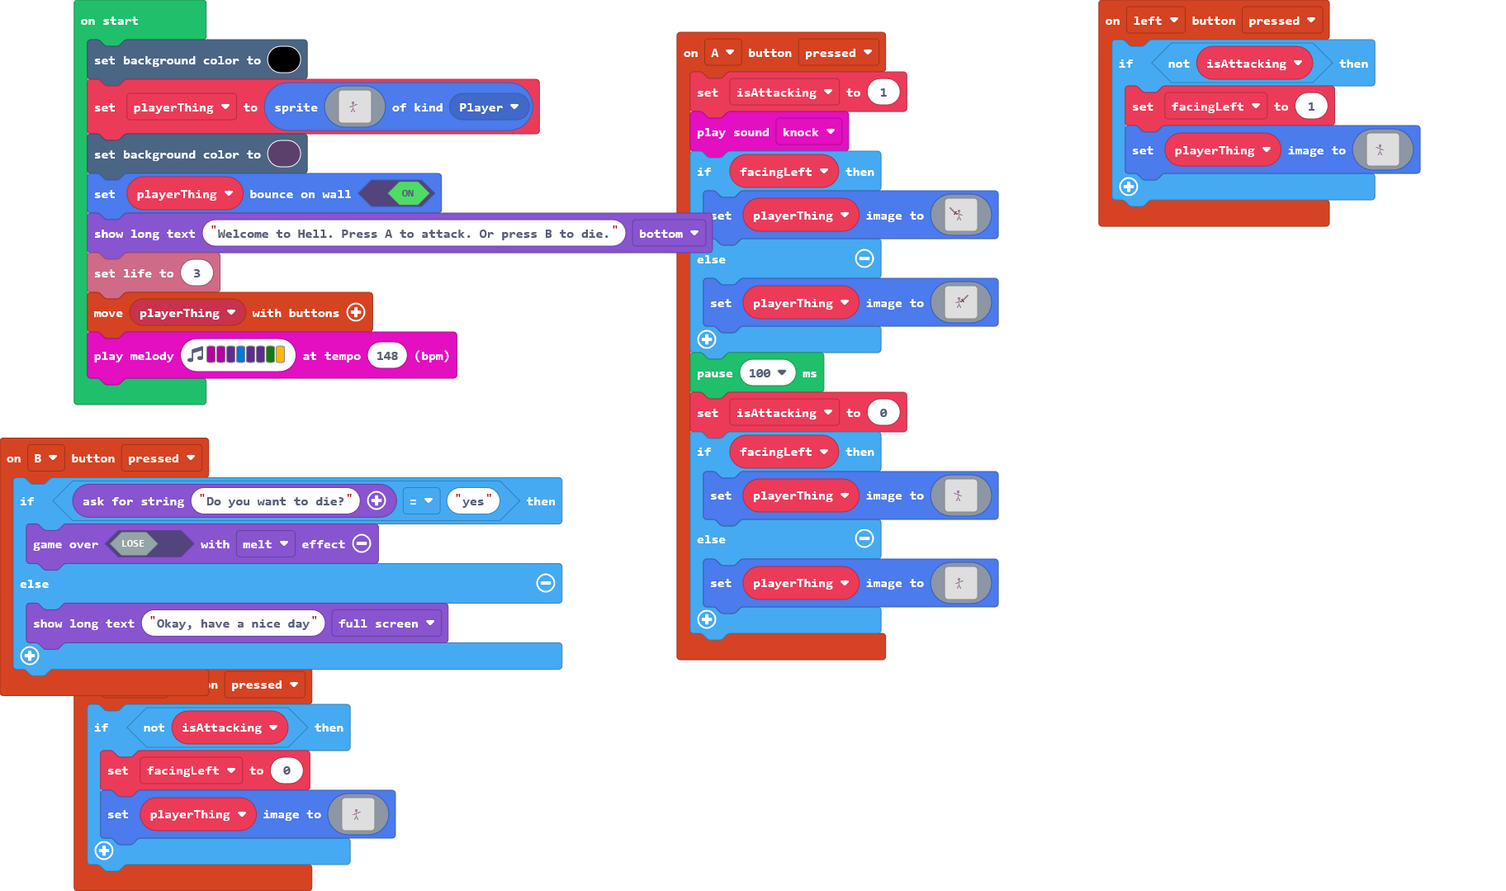
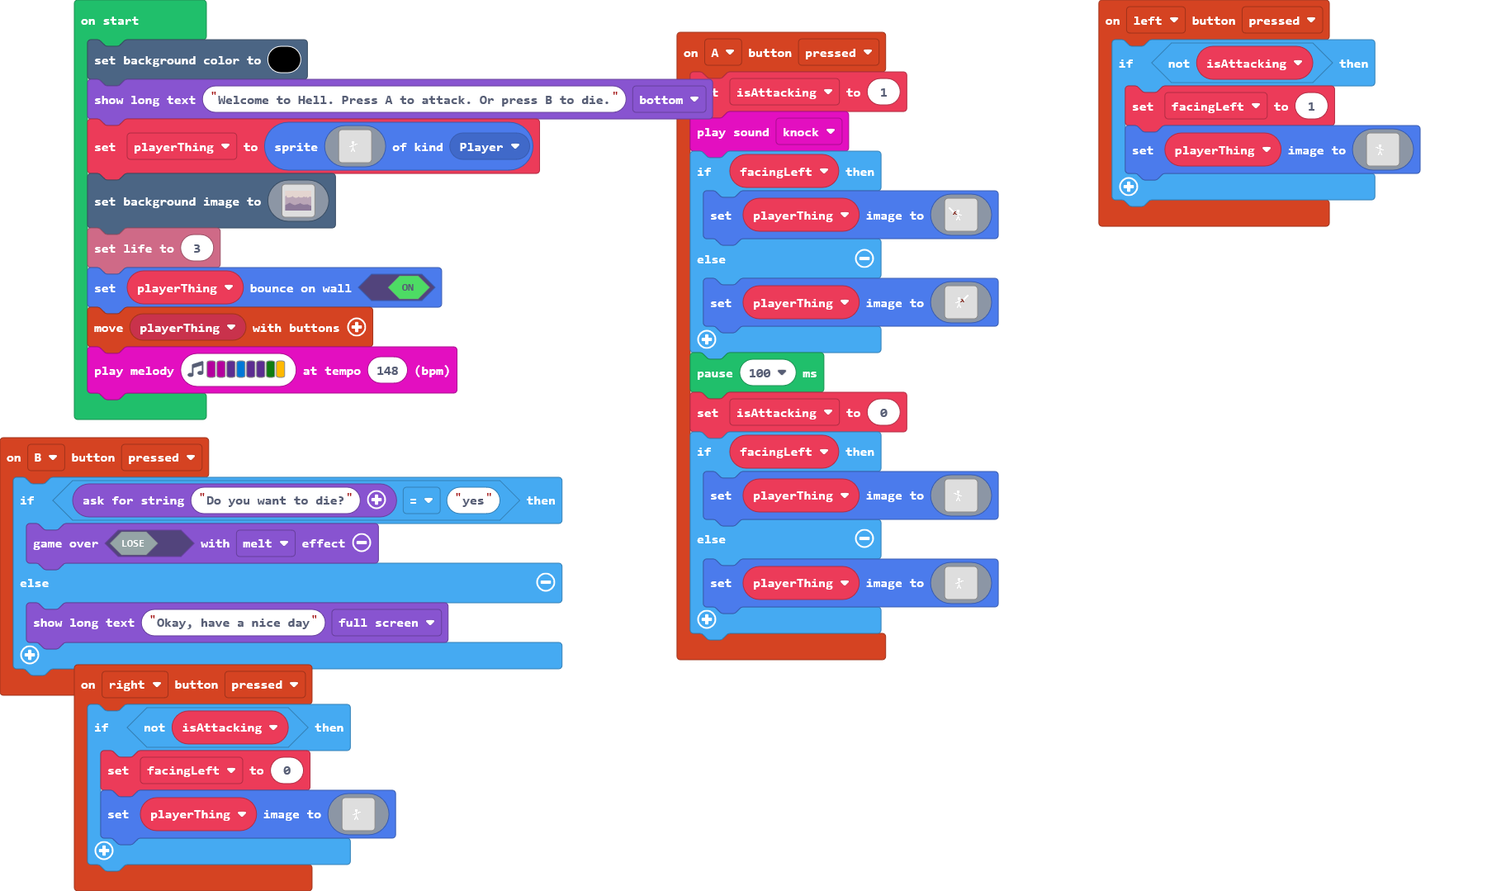
stuff and stuff idk

diff --git a/images.g.ts b/images.g.ts
@@ -3,6 +3,129 @@ namespace myImages {
 
     helpers._registerFactory("image", function(name: string) {
         switch(helpers.stringTrim(name)) {
+            case "image5":
+            case "Background":return img`
+dddddddddddddddddddddddddddddddddddddddddddddddddddddddddddddddddddddddddddddddddddddddddddddddddddddddddddddddddddddddddddddddddddddddddddddddddddddddddddddddd
+dddddddddddddddddddddddddddddddddddddddddddddddddddddddddddddddddddddddddddddddddddddddddddddddddddddddddddddddddddddddddddddddddddddddddddddddddddddddddddddddd
+dddddddddddddddddddddddddddddddddddddddddddddddddddddddddddddddddddddddddddddddddddddddddddddddddddddddddddddddddddddddddddddddddddddddddddddddddddddddddddddddd
+dddddddddddddddddddddddddddddddddddddddddddddddddddddddddddddddddddddddddddddddddddddddddddddddddddddddddddddddddddddddddddddddddddddddddddddddddddddddddddddddd
+dddddddddddddddddddddddddddddddddddddddddddddddddddddddddddddddddddddddddddddddddddddddddddddddddddddddddddddddddddddddddddddddddddddddddddddddddddddddddddddddd
+dddddddddddddddddddddddddddddddddddddddddddddddddddddddddddddddddddddddddddddddddddddddddddddddddddddddddddddddddddddddddddddddddddddddddddddddddddddddddddddddd
+dddddddddddddddddddddddddddddddddddddddddddddddddddddddddddddddddddddddddddddddddddddddddddddddddddddddddddddddddddddddddddddddddddddddddddddddddddddddddddddddd
+dddddddddddddddddddddddddddddddddddddddddddddddddddddddddddddddddddddddddddddddddddddddddddddddddddddddddddddddddddddddddddddddddddddddddddddddddddddddddddddddd
+dddddddddddddddddddddddddddddddddddddddddddddddddddddddddddddddddddddddddddddddddddddddddddddddddddddddddddddddddddddddddddddddddddddddddddddddddddddddddddddddd
+dddddddddddddddddddddddddddddddddddddddddddddddddddddddddddddddddddddddddddddddddddddddddddddddddddddddddddddddddddddddddddddddddddddddddddddddddddddddddddddddd
+dddddddddddddddddddddddddddddddddddddddddddddddddddddddddddddddddddddddddddddddddddddddddddddddddddddddddddddddddddddddddddddddddddddddddddddddddddddddddddddddd
+dddddddddddddddddddddddddddddddddddddddddddddddddddddddddddddddddddddddddddddddddddddddddddddddddddddddddddddddddddddddddddddddddddddddddddddddddddddddddddddddd
+dddddddddddddddddddddddddddddddddddddddddddddddddddddddddddddddddddddddddddddddddddddddddddddddddddddddddddddddddddddddddddddddddddddddddddddddddddddddddddddddd
+dddddddddddddddddddddddddddddddddddddddddddddddddddddddddddddddddddddddddddddddddddddddddddddddddddddddddddddddddddddddddddddddddddddddddddddddddddddddddddddddd
+dddddddddddddddddddddddddddddddddddddddddddddddddddddddddddddddddddddddddddddddddddddddddddddddddddddddddddddddddddddddddddddddddddddddddddddddddddddddddddddddd
+dddddddddddddddddddddddddddddddddddddddddddddddddddddddddddddddddddddddddddddddddddddddddddddddddddddddddddddddddddddddddddddddddddddddddddddddddddddddddddddddd
+dddddddddddddddddddddddddddddddddddddddddddddddddddddddddddddddddddddddddddddddddddddddddddddddddddddddddddddddddddddddddddddddddddddddddddddddddddddddddddddddd
+dddddddddddddddddddddddddddddddddddddddddddddddddddddddddddddddddddddddddddddddddddddddddddddddddddddddddddddddddddddddddddddddddddddddddddddddddddddddddddddddd
+dddddddddddddddddddddddddddddddddddddddddddddddddddddddddddddddddddddddddddddddddddddddddddddddddddddddddddddddddddddddddddddddddddddddddddddddddddddddddddddddd
+dddddddddddddddddddddddddddddddddddddddddddddddddddddddddddddddddddddddddddddddddddddddddddddddddddddddddddddddddddddddddddddddddddddddddddddddddddddddddddddddd
+dddddddddddddddddddddddddddddddddddddddddddddddddddddddddddddddddddddddddddddddddddddddddddddddddddddddddddddddddddddddddddddddddddddddddddddddddddddddddddddddd
+dddddddddddddddddddddddddddddddddddddddddddddddddddddddddddddddddddddddddddddddddddddddddddddddddddddddddddddddddddddddddddddddddddddddddddddddddddddddddddddddd
+dddddddddddddddddddddddddddddddddddddddddddddddddddddddddddddddddddddddddddddddddddddddddddddddddddddddddddddddddddddddddddddddddddddddddddddddddddddddddddddddd
+dddddddddddddddddddddddddddddddddddddddddddddddddddddddddddddddddddddddddddddddddddddddddddddddddddddddddddddddddddddddddddddddddddddddddddddddddddddddddddddddd
+dddddddddddddddddddddddddddddddddddddddddddddddddddddddddddddddddddddddddddddddddddddddddddddddddddddddddddddddddddddddddddddddddddddddddddddddddddddddddddddddd
+dddddddddddddddddddddddddddddddddddddddddddddddddddddddddddddddddddddddddddddddddddddddddddddddddddddddddddddddddddddddddddddddddddddddddddddddddddddddddddddddd
+dddddddddddddddddddddddddddddddddddddddddddddddddddddddddddddddddddddddddddddddddddddddddddddddddddddddddddddddddddddddddddddddddddddddddddddddddddddddddddddddd
+dddddddddddddddddddddddddddddddddddddddddddddddddddddddddddddddddddddddddddddddddddddddddddddddddddddddddddddddddddddddddddddddddddddddddddddddddddddddddddddddd
+dddddddddddddddddddddddddddddddddddddddddddddddddddddddddddddddddddddddddddddddddddddddddddddddddddddddddddddddddddddddddddddddddddddddddddddddddddddddddddddddd
+dddddddddbbbdddddddddddddddddddddddddddddddddddddddddddddddddddddddddddddddddddddddddddddddddddddddddddddddddddddddddddddddddddddddddddddddddddddddddddddddddddd
+ddddddddbbbddddddddddddddddddddddddddddddddddddddddddddddddddddddddddddddddddddddddddddddddddddddddddddddddddddddddddddddddddddddddddddddddddddddddddddddddddddd
+ddddddbbbbbddddddddddddddddddddddddddddddddddddddddddddddddddddddddddddddddddddddddddddddddddddddddddddddddddddddddddddddddddddddddddddddddddddddddddddddddddddd
+ddddbbbbbbbdddddddddddddddddddddddddddddddddddddbddddddddddddddddddddddddddddddddddddddddddddddddddddddddddddddddddddddddddddddddddddddddddddddddddddddddddddddd
+dddbbbbbbbbddddddddddddddddddddddddddddddddddddbbbdddddddddddddddddddddddddddddddddddddddddddddddddddddddddddddddddddddddddddddddddddddddddddddddddddddddddddddd
+ddbbbbbbbbbdddddddddddddddddddddddddddddddddddbbbbdddddddddddddddddddddddddddddddddddddddddddddddddddddddddddddddddddddddddddddddddddddddddddddddddddddddddddddd
+bbbbbbbbbbbdddddddddddddddddddddddddddddddddbbbbbbbdddddddddddddddddddddddddddddddddbdddddddddddddddddddddddddddddbddddddddddddddddddddddddddddddddddddbbddddddd
+bbbbbbbbbbbbdddddddddddddddddddddddddddddddbbbbbbbbbdddddddddddddddddddddddddddddddbbddddddddddddddddddddddddddddbbbddddddddddddddddbbdddddddddddddddbbbbbbddddd
+bbbbbbbbbbbbddddddddddddddddddddddddddddbbbbbbbbbbbbbddddddddddddddddddddddddddddbbbbbddddddddddddddddddddddddddbbbbbbbbdddddddddddbbbbddddddddddddbbbbbbbbbbbbb
+bbbbbbbbbbbbbdddddddddddddddddddddddbbbbbbbbbbbbbbbbbbddddddddddddddddddddddddddbbbbbbbbddddddddddddddddddddddbbbbbbbbbbbbbbbbddddbbbbbdddddddddddbbbbbbbbbbbbbb
+bbbbbbbbbbbbbbbddddddddddddddddddbbbbbbbbbbbbbbbbbbbbbbbbddddddddddddddddddddddbbbbbbbbbbddddddddddddddddddddbbbbbbbbbbbbbbbbbbbbbbbbbbddddddddddbbbbbbbbbbbbbbb
+bbbbbbbbbbbbbbbbddddddddddddbbbbbbbbbbbbbbbbbbbbbbbbbbbbbbdddddddddddddddddddbbbbbbbbbbbbbbddddddddddddddddbbbbbbbbbbbbbbbbbbbbbbbbbbbbddddddddbbbbbbbbbbbbbbbbb
+bbbbbbbbbbbbbbbbbbbbbbbbbbbbbbbbbbbbbbbbbbbbbbbbbbbbbbbbbbbbbdddddddddddddbbbbbbbbbbbbbbbbbbbbbbbbbbbbbbbbbbbbbbbbbbbbbbbbbbbbbbbbbbbbbbddddddbbbbbbbbbbbbbbbbbb
+bbbbbbbbbbbbbbbbbbbbbbbbbbbbbbbbbbbbbbbbbbbbbbbbbbbbbbbbbbbbbbbbbddddddbbbbbbbbbbbbbbbbbbbbbbbbbbbbbbbbbbbbbbbbbbbbbbbbbbbbbbbbbbbbbbbbbbbdddbbbbbbbbbbbbbbbbbbb
+bbbbbbbbbbbbbbbbbbbbbbbbbbbbbbbbbbbbbbbbbbbbbbbbbbbbbbbbbbbbbbbbbbbbbbbbbbbbbbbbbbbbbbbbbbbbbbbbbbbbbbbbbbbbbbbbbbbbbbbbbbbbbbbbbbbbbbbbbbbbbbbbbbbbbbbbbbbbbbbb
+bbbbbbbbbbbbbbbbbbbbbbbbbbbbbbbbbbbbbbbbbbbbbbbbbbbbbbbbbbbbbbbbbbbbbbbbbbbbbbbbbbbbbbbbbbbbbbbbbbbbbbbbbbbbbbbbbbbbbbbbbbbbbbbbbbbbbbbbbbbbbbbbbbbbbbbbbbbbbbbb
+bbbbbbbbbbbbbbbbbbbbbbbbbbbbbbbbbbbbbbbbbbbbbbbbbbbbbbbbbbbbbbbbbbbbbbbbbbbbbbbbbbbbbbbbbbbbbbbbbbbbbbbbbbbbbbbbbbbbbbbbbbbbbbbbbbbbbbbbbbbbbbbbbbbbbbbbbbbbbbbb
+bbbbbbbbbbbbbbbbbbbbbbbbbbbbbbbbbbbbbbbbbbbbbbbbbbbbbbbbbbbbbbbbbbbbbbbbbbbbbbbbbbbbbbbbbbbbbbbbbbbbbbbbbbbbbbbbbbbbbbbbbbbbbbbbbbbbbbbbbbbbbbbbbbbbbbbbbbbbbbbb
+bbbbbbbbbbbbbbbbbbbbbbbbbbbbbbbbbbbbbbbbbbbbbbbbbbbbbbbbbbbbbbbbbbbbbbbbbbbbbbbbbbbbbbbbbbbbbbbbbbbbbbbbbbbbbbbbbbbbbbbbbbbbbbbbbbbbbbbbbbbbbbbbbbbbbbbbbbbbbbbb
+bbbbbbbbbbbbbbbbbbbbbbbbbbbbbbbbbbbbbbbbbbbbbbbbbbbbbbbbbbbbbbbbbbbbbbbbbbbbbbbbbbbbbbbbbbbbbbbbbbbbbbbbbbbbbbbbbbbbbbbbbbbbbbbbbbbbbbbbbbbbbbbbbbbbbbbbbbbbbbbb
+bbbbbbbbbbbbbbbbbbbbbbbbbbbbbbbbbbbbbbbbbbbbbbbbbbbbbbbbbbbbbbbbbbbbbbbbbbbbbbbbbbbbbbbbbbbbbbbbbbbbbbbbbbbbbbbbbbbbbbbbbbbbbbbbbbbbbbbbbbbbbbbbbbbbbbbbbbbbbbbb
+bbbbbbbbbbbbbbbbbbbbbbbbbbbbbbbbbbbbbbbbbbbbbbbbbbbbbbbbbbbbbbbbbbbbbbbbbbbbbbbbbbbbbbbbbbbbbbbbbbbbbbbbbbbbbbbbbbbbbbbbbbbbbbbbbbbbbbbbbbbbbbbbbbbbbbbbbbbbbbbb
+bbbbbbbbbbbbbbbbbbbbbbbbbbbbbbbbbbbbbbbbbbbbbbbbbbbbbbbbbbbbbbbbbbbbbbbbbbbbbbbbbbbbbbbbbbbbbbbbbbbbbbbbbbbbbbbbbbbbbbbbbbbbbbbbbbbbbbbbbbbbbbbbbbbbbbbbbbbbbbbb
+bbbbbbbbbbbbbbbbbbbbbbbbbbbbbbbbbbbbbbbbbbbbbbbbbbbbbbbbbbbbbbbbbbbbbbbbbbbbbbbbbbbbbbbbbbbbbbbbbbbbbbbbbbbbbbbbbbbbbbbbbbbbbbbbbbbbbbbbbbbbbbbbbbbbbbbbbbbbbbbb
+bbbbbbbbbbbbbbbbbbbbbbbbbbbbbbbbbbbbbbbbbbbbbbbbbbbbbbbbbbbbbbbbbbbbbbbbbbbbbbbbbbbbbbbbbbbbbbbbbbbbbbbbbbbbbbbbbbbbbbbbbbbbbbbbbbbbbbbbbbbbbbbbbbbbbbbbbbbbbbbb
+bbbbbbbbbbbbbbbbbbbbbbbbbbbbbbbbbbbbbbbbbbbbbbbbbbbbbbbbbbbbbbbbbbbbbbbbbbbbbbbbbbbbbbbbbbbbbbbbbbbbbbbbbbbbbbbbbbbbbbbbbbbbbbbbbbbbbbbbbbbbbbbbbbbbbbbbbbbbbbbb
+bbbbbbbbbbbbbbbbbbbbbbbbbbbbbbbbbbbbbbbbbbbbbbbbbbbbbbbbbbbbbbbbbbbbbbbbbbbbbbbbbbbbbbbbbbbbbbbbbbbbbbbbbbbbbbbbbbbbbbbbbbbbbbbbbbbbbbbbbbbbbbbbbbbbbbbbbbbbbbbb
+bbbbbbbbbbbbbbbbbbbbbbbbbbbbbbbbbbbbbbbbbbbbbbbbbbbbbbbbbbbbbbbbbbbbbbbbbbbbbbbbbbbbbbbbbbbbbbbbbbbbbbbbbbbbbbbbbbbbbbbbbbbbbbbbbbbbbbbbbbbbbbbbbbbbbbbbbbbbbbbb
+bbbbbbbbbbbbbbbbbbbbbbbbbbbbbbbbbbbbbbbbbbbbbbbbbbbbbbbbbbbbbbbbbbbbbbbbbbbbbbbbbbbbbbbbbbbbbbbbbbbbbbbbbbbbbbbbbbbbbbbbbbbbbbbbbbbbbbbbbbbbbbbbbbbbbbbbbbbbbbbb
+bbbbbbbbbbbbbbbbbbbbbbbbbbbbbbbbbbbbbbbbbbbbbbbbbbbbbbbbbbbbbbbbbbbbbbbbbbbbbbbbbbbbbbbbbbbbbbbbbbbbbbbbbbbbbbbbbbbbbbbbbbbbbbbbbbbbbbbbbbbbbbbbbbbbbbbbbbbbbbbb
+bbbbbbbbbbbbbbbbbbbbbbbbbbbbbbbbbbbbbbbbbbbbbbbbbbbbbbbbbbbbbbbbbbbbbbbbbbbbbbbbbbbbbbbbbbbbbbbbbbbbbbbbbbbbbbbbbbbbbbbbbbbbbbbbbbbbbbbbbbbbbbbbbbbbbbbbbbbbbbbb
+bbbbbbbbbbbbbbbbbbbbbbbbbbbbbbbbbbbbbbbbbbbbbbbbbbbbbbbbbbbbbbbbbbbbbbbbbbbbbbbbbbbbbbbbbbbbbbbbbbbbbbbbbbbbbbbbbbbbbbbbbbbbbbbbbbbbbbbbbbbbbbbbbbbbbbbbbbbbbbbb
+bbbbbbbbbbbbbbbbbbbbbbbbbbbbbbbbbbbbbbbbbbbbbbbbbbbbbbbbbbbbbbbbbbbbbbbbbbbbbbbbbbbbbbbbbbbbbbbbbbbbbbbbbbbbbbbbbbbbbbbbbbbbbbbbbbbbbbbbbbbbbbbbbbbbbbbbbbbbbbbb
+bbbbbbbbbbbbbbbbbbbbbbbbbbbbbbbbbbbbbbbbbbbbbbbbbbbbbbbbbbbbbbbbbbbbbbbbbbbbbbbbbbbbbbbbbbbbbbbbbbbbbbbbbbbbbbbbbbbbbbbbbbbbbbbbbbbbbbbbbbbbbbbbbbbbbbbbbbbbbbbb
+bbbbbbbbbbbbbbbbbbbbbbbbbbbbbbbbbbbbbbbbbbbbbbbbbbbbbbbbbbbbbbbbbbbbbbbbbbbbbbbbbbbbbbbbbbbbbbbbbbbbbbbbbbbbbbbbbbbbbbbbbbbbbbbbbbbbbbbbbbbbbbbbbbbbbbbbbbbbbbbb
+bbbbbbbbbbbbbbbbbbbbbbbbbbbbbbbbbbbbbbbbbbbbbbbbbbbbbbbbbbbbbbbbbbbbbbbbbbbbbbbbbbbbbbbbbbbbbbbbbbbbbbbbbbbbbbbbbbbbbbbbbbbbbbbbbbbbbbbbbbbbbbbbbbbbbbbbbbbbbbbb
+bbbbbbbbbbbbbbbbbbbbbbbbbbbbbbbbbbbbbbbbbbbbbbbbbbbbbbbbbbbbbbbbbbbbbbbbbbbbbbbbbbbbbbbbbbbbbbbbbbbbbbbbbbbbbbbbbbbbbbbbbbbbbbbbbbbbbbbbbbbbbbbbbbbbbbbbbbbbbbbb
+bbbbbbbbbbbbbbbbbbbbbbbbbbbbbbbbbbbbbbbbbbbbbbbbbbbbbbbbbbbbbbbbbbbbbbbbbbbbbbbbbbbbbbbbbbbbbbbbbbbbbbbbbbbbbbbbbbbbbbbbbbbbbbbbbbbbbbbbbbbbbbbbbbbbbbbbbbbbbbbb
+bbbbbbbbbbbbbbbbbbbbbbbbbbbbbbbbbbbbbbbbbbbbbbbbbbbbbbbbbbbbbbbbbbbbbbbbbbbbbbbbbbbbbbbbbbbbbbbbbbbbbbbbbbbbbbbbbbbbbbbbbbbbbbbbbbbbbbbbbbbbbbbbbbbbbbbbbbbbbbbb
+bbbbbbbbbbbbbbbbbbbbbbbbbbbbbbbbbbbbbbbbbbbbbbbbbbbbbbbbbbbbbbbbbbbbbbbbbbbbbbbbbbbbbbbbbbbbbbbbbbbbbbbbbbbbbbbbbbbbbbbbbbbbbbbbbbbbbbbbbbbbbbbbbbbbbbbbbbbbbbbb
+bbbbbbbbbbbbbbbbbbbbbbbbbbbbbbbbbbbbbbbbbbbbbbbbbbbbbbbbbbbbbbbbbbbbbbbbbbbbbbbbbbbbbbbbbbbbbbbbbbbbbbbbbbbbbbbbbbbbbbbbbbbbbbbbbbbbbbbbbbbbbbbbbbbbbbbbbbbbbbbb
+bbbbbbbbbbbbbbbbbbbbbbbbbbbbbbbbbbbbbbbbbbbbbbbbbbbbbbbbbbbbbbbbbbbbbbbbbbbbbbbbbbbbbbbbbbbbbbbbbbbbbbbbbbbbbbbbbbbbbbbbbbbbbbbbbbbbbbbbbbbbbbbbbbbbbbbbbbbbbbbb
+bbbbbbbbbbbbbbbbbbbbbbbbbbbbbbbbbbbbbbbbbbbbbbbbbbbbbbbbbbbbbbbbbbbbbbbbbbbbbbbbbbbbbbbbbbbbbbbbbbbbbbbbbbbbbbbbbbbbbbbbbbbbbbbbbbbbbbbbbbbbbbbbbbbbbbbbbbbbbbbb
+bbbbbbbbbbbbbbbbbbbbbbbbbbbbbbbcbbbbbbbbbbbbbbbbbbbbbbbbbbbbbbbbbbbbbbbbbbbbbbbbbbbbbbbbbbbbbbbbbbbbbbbbbbbbbbbbbbbbbbbbbbbbbbbbbbbbbbbbbbbbbbbbbbbbbbbbbbbbbbbb
+bbbbbbbbbbbbbbbbbbbbbbbbbbbbcccccbbbbbbbbbbbbbbbbbbbbbbbbbbbbbbbbbbbbbbbbbbbbbbbbbbbbbbbbbbbbbbbbbbbbbbbbbbbbbbbbbbbbbbbbbbbbbbbbbbbbbbbbbbbbbbbbbbbbbbbbbbbbbbb
+bbbbbbbbbbbbbbbbbbbbbbbbbbccccccccbbbbbbbbbbbbbbbbbbbbbbbbbbbbbbbbbbbbbbbbbbbbbbbbbbbbbbbbbbbbcbbbbbbbbbbbbbbbbbbbbbbbbbbbbbbbbbbbbbbbbbbbbbbbbbbbbbbbbbbbbbbbbb
+bbbbbbbbbbbbbbbbbbbbbbbbbccccccccccbbbbbbbbbbbbbbbbbbbbbbbbbbbbbbbbbbbbbbbbbbbbbbbbbbbbbbbbbbccbbbbbbbbbbbbbbbbbbbbbbbbbbbbbbbbbbbbbbbbbbbbbbbbbbbbbbbbbbbbbbbbb
+bbbbbbbbbbbbbbbbbbbbbbccccccccccccccbbbbbbbbbbbbbbbbbbbbbbbbbbbbbbbbbbbbbbbbbbbbbbbbbbbbbbcccccccbbbbbbbbbbbbbbbbbbbbbbbbbbbbbbbbbbbbbbbbbbbbbbbbbbbbbbbbbbbbbbb
+bbbbbbbbbbbbbbbbbbbbccccccccccccccccccbbbbbbbbbbbbbbbbbbbbbbbbbbbbbbbbbbbbbbbbbbbbbbbbbbccccccccccbbbbbbbbbbbbbbbbbbbbbbbbbbbbbbbbbbbbbbbbbbbbbbbbbbbbbbbbbbbbbb
+bbbbbbbbbbbbbbbbbbbcccccccccccccccccccccccbbbbbbbbbbbbbbbbbbbbbbbbbbbbbbbbbbbbbbbbbbbbbcccccccccccccbbbbbbbbbbbbbbbbbbbbbbbbbbbbbbbbbbbbbbbbbbbbbbbbbbbbbbbbbbbb
+bbbbbbbbbbbbbbbbbccccccccccccccccccccccccccbbbbbbbbbbbbbbbbbbbbbbbbbbbbbbbbbbbbbbbbbcccccccccccccccccbbbbbbbbbbbbbbbbbbbbbbbbbbbbbbbbbbbbbbbbbbbbbbbbbbbbbbbbbbb
+bbbbbbbbbbbbbbbbbcccccccccccccccccccccccccccbbbbbbbbbbbbbbbbbbbbbbbbbbbbbbbbbbbbcccccccccccccccccccccccbbbbbbbbbbbbbbbbbbbbbbbbbbbbbbbbbbbbbbbbbbbbbbbbbbbbbbbbb
+bbbbbbbbbbbbbbcccccccccccccccccccccccccccccccbbbbbbbbbbbbbbbbbbbbbbbbbbbbbbbbccccccccccccccccccccccccccccccbbbbbbbbbbbbbbbbbbbbbbbbbbbbbbbbbbbbbbbbbbbbbbbbbbbbb
+bbbbbbbbbbbcccccccccccccccccccccccccccccccccccccbbbbbbbbbbbbbbbbbbbbbbbbbbcccccccccccccccccccccccccccccccccccbbbbbbbbbbbbbbbbbbbbbbbbcccccccbbbbbbbbbbbbbbbbbbbb
+bbbbbbbbbccccccccccccccccccccccccccccccccccccccccccbbbbbbbbbbbbbbbbbbbbccccccccccccccccccccccccccccccccccccccccbbbbbbbbbbcccccccccccccccccccccbbbbbbbbbbbbbbbbbb
+bbbbbbbccccccccccccccccccccccccccccccccccccccccccccccbbbbbbbbbbbbbbbcccccccccccccccccccccccccccccccccccccccccccccccccccccccccccccccccccccccccccbbbbbbbbbbbbbbbbb
+bbbbcccccccccccccccccccccccccccccccccccccccccccccccccccccbbbbbbbbcccccccccccccccccccccccccccccccccccccccccccccccccccccccccccccccccccccccccccccccbbbbbbbbbbbbbbbb
+bbbccccccccccccccccccccccccccccccccccccccccccccccccccccccccbbbbccccccccccccccccccccccccccccccccccccccccccccccccccccccccccccccccccccccccccccccccccccbbbbbbbbbbbbb
+bccccccccccccccccccccccccccccccccccccccccccccccccccccccccccccbccccccccccccccccccccccccccccccccccccccccccccccccccccccccccccccccccccccccccccccccccccccccbbbbbbbbbb
+cccccccccccccccccccccccccccccccccccccccccccccccccccccccccccccccccccccccccccccccccccccccccccccccccccccccccccccccccccccccccccccccccccccccccccccccccccccccbbbbbbbbb
+cccccccccccccccccccccccccccccccccccccccccccccccccccccccccccccccccccccccccccccccccccccccccccccccccccccccccccccccccccccccccccccccccccccccccccccccccccccccccccbbbbb
+cccccccccccccccccccccccccccccccccccccccccccccccccccccccccccccccccccccccccccccccccccccccccccccccccccccccccccccccccccccccccccccccccccccccccccccccccccccccccccccbbb
+cccccccccccccccccccccccccccccccccccccccccccccccccccccccccccccccccccccccccccccccccccccccccccccccccccccccccccccccccccccccccccccccccccccccccccccccccccccccccccccccc
+cccccccccccccccccccccccccccccccccccccccccccccccccccccccccccccccccccccccccccccccccccccccccccccccccccccccccccccccccccccccccccccccccccccccccccccccccccccccccccccccc
+cccccccccccccccccccccccccccccccccccccccccccccccccccccccccccccccccccccccccccccccccccccccccccccccccccccccccccccccccccccccccccccccccccccccccccccccccccccccccccccccc
+cccccccccccccccccccccccccccccccccccccccccccccccccccccccccccccccccccccccccccccccccccccccccccccccccccccccccccccccccccccccccccccccccccccccccccccccccccccccccccccccc
+cccccccccccccccccccccccccccccccccccccccccccccccccccccccccccccccccccccccccccccccccccccccccccccccccccccccccccccccccccccccccccccccccccccccccccccccccccccccccccccccc
+cccccccccccccccccccccccccccccccccccccccccccccccccccccccccccccccccccccccccccccccccccccccccccccccccccccccccccccccccccccccccccccccccccccccccccccccccccccccccccccccc
+cccccccccccccccccccccccccccccccccccccccccccccccccccccccccccccccccccccccccccccccccccccccccccccccccccccccccccccccccccccccccccccccccccccccccccccccccccccccccccccccc
+cccccccccccccccccccccccccccccccccccccccccccccccccccccccccccccccccccccccccccccccccccccccccccccccccccccccccccccccccccccccccccccccccccccccccccccccccccccccccccccccc
+cccccccccccccccccccccccccccccccccccccccccccccccccccccccccccccccccccccccccccccccccccccccccccccccccccccccccccccccccccccccccccccccccccccccccccccccccccccccccccccccc
+cccccccccccccccccccccccccccccccccccccccccccccccccccccccccccccccccccccccccccccccccccccccccccccccccccccccccccccccccccccccccccccccccccccccccccccccccccccccccccccccc
+cccccccccccccccccccccccccccccccccccccccccccccccccccccccccccccccccccccccccccccccccccccccccccccccccccccccccccccccccccccccccccccccccccccccccccccccccccccccccccccccc
+cccccccccccccccccccccccccccccccccccccccccccccccccccccccccccccccccccccccccccccccccccccccccccccccccccccccccccccccccccccccccccccccccccccccccccccccccccccccccccccccc
+cccccccccccccccccccccccccccccccccccccccccccccccccccccccccccccccccccccccccccccccccccccccccccccccccccccccccccccccccccccccccccccccccccccccccccccccccccccccccccccccc
+cccccccccccccccccccccccccccccccccccccccccccccccccccccccccccccccccccccccccccccccccccccccccccccccccccccccccccccccccccccccccccccccccccccccccccccccccccccccccccccccc
+cccccccccccccccccccccccccccccccccccccccccccccccccccccccccccccccccccccccccccccccccccccccccccccccccccccccccccccccccccccccccccccccccccccccccccccccccccccccccccccccc
+cccccccccccccccccccccccccccccccccccccccccccccccccccccccccccccccccccccccccccccccccccccccccccccccccccccccccccccccccccccccccccccccccccccccccccccccccccccccccccccccc
+cccccccccccccccccccccccccccccccccccccccccccccccccccccccccccccccccccccccccccccccccccccccccccccccccccccccccccccccccccccccccccccccccccccccccccccccccccccccccccccccc
+cccccccccccccccccccccccccccccccccccccccccccccccccccccccccccccccccccccccccccccccccccccccccccccccccccccccccccccccccccccccccccccccccccccccccccccccccccccccccccccccc
+cccccccccccccccccccccccccccccccccccccccccccccccccccccccccccccccccccccccccccccccccccccccccccccccccccccccccccccccccccccccccccccccccccccccccccccccccccccccccccccccc
+cccccccccccccccccccccccccccccccccccccccccccccccccccccccccccccccccccccccccccccccccccccccccccccccccccccccccccccccccccccccccccccccccccccccccccccccccccccccccccccccc
+cccccccccccccccccccccccccccccccccccccccccccccccccccccccccccccccccccccccccccccccccccccccccccccccccccccccccccccccccccccccccccccccccccccccccccccccccccccccccccccccc
+cccccccccccccccccccccccccccccccccccccccccccccccccccccccccccccccccccccccccccccccccccccccccccccccccccccccccccccccccccccccccccccccccccccccccccccccccccccccccccccccc
+cccccccccccccccccccccccccccccccccccccccccccccccccccccccccccccccccccccccccccccccccccccccccccccccccccccccccccccccccccccccccccccccccccccccccccccccccccccccccccccccc
+cccccccccccccccccccccccccccccccccccccccccccccccccccccccccccccccccccccccccccccccccccccccccccccccccccccccccccccccccccccccccccccccccccccccccccccccccccccccccccccccc
+cccccccccccccccccccccccccccccccccccccccccccccccccccccccccccccccccccccccccccccccccccccccccccccccccccccccccccccccccccccccccccccccccccccccccccccccccccccccccccccccc
+cccccccccccccccccccccccccccccccccccccccccccccccccccccccccccccccccccccccccccccccccccccccccccccccccccccccccccccccccccccccccccccccccccccccccccccccccccccccccccccccc
+cccccccccccccccccccccccccccccccccccccccccccccccccccccccccccccccccccccccccccccccccccccccccccccccccccccccccccccccccccccccccccccccccccccccccccccccccccccccccccccccc
+cccccccccccccccccccccccccccccccccccccccccccccccccccccccccccccccccccccccccccccccccccccccccccccccccccccccccccccccccccccccccccccccccccccccccccccccccccccccccccccccc
+cccccccccccccccccccccccccccccccccccccccccccccccccccccccccccccccccccccccccccccccccccccccccccccccccccccccccccccccccccccccccccccccccccccccccccccccccccccccccccccccc
+`;
             case "image1":
             case "guyWithASword":return img`
 ................................
@@ -12,22 +135,22 @@ namespace myImages {
 ................................
 ................................
 ................................
-.......................bb.......
-......................bbb.......
-.....................bbb........
-............bbb.....bbb.........
-............bbb....bbb..........
-............bbb.eebbb...........
-.............b...eeb............
-.............bbbeee.............
-...........bbb.ee.ee............
-.........bbb.b..................
-.............b..................
-.............b..................
-............bbb.................
-............b.b.................
-...........bb.bb................
-...........b...b................
+.......................11.......
+......................111.......
+.....................111........
+............111.....111.........
+............111....111..........
+............111.ee111...........
+.............1...ee1............
+.............111eee.............
+...........111.ee.ee............
+.........111.1..................
+.............1..................
+.............1..................
+............111.................
+............1.1.................
+...........11.11................
+...........1...1................
 ................................
 ................................
 ................................
@@ -50,19 +173,19 @@ namespace myImages {
 ................................
 ................................
 ................................
-............bbb.................
-............bbb.................
-............bbb.................
-.............b..bbb.............
-.............bbbb...............
-...........bbb..................
-.........bbb.b..................
-.............b..................
-.............b..................
-............bbb.................
-............b.b.................
-...........bb.bb................
-...........b...b................
+............111.................
+............111.................
+............111.................
+.............1..111.............
+.............1111...............
+...........111..................
+.........111.1..................
+.............1..................
+.............1..................
+............111.................
+............1.1.................
+...........11.11................
+...........1...1................
 ................................
 ................................
 ................................
@@ -85,19 +208,19 @@ namespace myImages {
 ................................
 ................................
 ................................
-...........bbb..................
-...........bbb..................
-...........bbb..................
-.......bbb..b...................
-.........bbbb...................
-............bbb.................
-............b.bbb...............
-............b...................
-............b...................
-...........bbb..................
-...........b.b..................
-..........bb.bb.................
-..........b...b.................
+...........111..................
+...........111..................
+...........111..................
+.......111..1...................
+.........1111...................
+............111.................
+............1.111...............
+............1...................
+............1...................
+...........111..................
+...........1.1..................
+..........11.11.................
+..........1...1.................
 ................................
 ................................
 ................................
@@ -117,22 +240,22 @@ namespace myImages {
 ................................
 ................................
 ................................
-.bb.............................
-.bbb............................
-..bbb...........................
-...bbb.....bbb..................
-....bbb....bbb..................
-.....bbbee.bbb..................
-......bee...b...................
-.......eeebbb...................
-......ee.ee.bbb.................
-............b.bbb...............
-............b...................
-............b...................
-...........bbb..................
-...........b.b..................
-..........bb.bb.................
-..........b...b.................
+.11.............................
+.111............................
+..111...........................
+...111.....111..................
+....111....111..................
+.....111ee.111..................
+......1ee...1...................
+.......eee111...................
+......ee.ee.111.................
+............1.111...............
+............1...................
+............1...................
+...........111..................
+...........1.1..................
+..........11.11.................
+..........1...1.................
 ................................
 ................................
 ................................

diff --git a/main.ts b/main.ts
@@ -37,10 +37,10 @@ let facingLeft = 0
 let isAttacking = 0
 let playerThing: Sprite = null
 scene.setBackgroundColor(15)
-playerThing = sprites.create(assets.image`guy`, SpriteKind.Player)
-scene.setBackgroundColor(12)
-playerThing.setBounceOnWall(true)
 game.showLongText("Welcome to Hell. Press A to attack. Or press B to die.", DialogLayout.Bottom)
+playerThing = sprites.create(assets.image`guy`, SpriteKind.Player)
+scene.setBackgroundImage(assets.image`Background`)
 info.setLife(3)
+playerThing.setBounceOnWall(true)
 controller.moveSprite(playerThing)
 music.playMelody("C C D E D D G A ", 148)

diff --git a/tilemap.g.ts b/tilemap.g.ts
@@ -2,10 +2,14 @@
 namespace myTiles {
     //% fixedInstance jres blockIdentity=images._tile
     export const transparency16 = image.ofBuffer(hex``);
+    //% fixedInstance jres blockIdentity=images._tile
+    export const tile1 = image.ofBuffer(hex``);
 
     helpers._registerFactory("tile", function(name: string) {
         switch(helpers.stringTrim(name)) {
             case "transparency16":return transparency16;
+            case "Background":
+            case "tile1":return tile1;
         }
         return null;
     })
